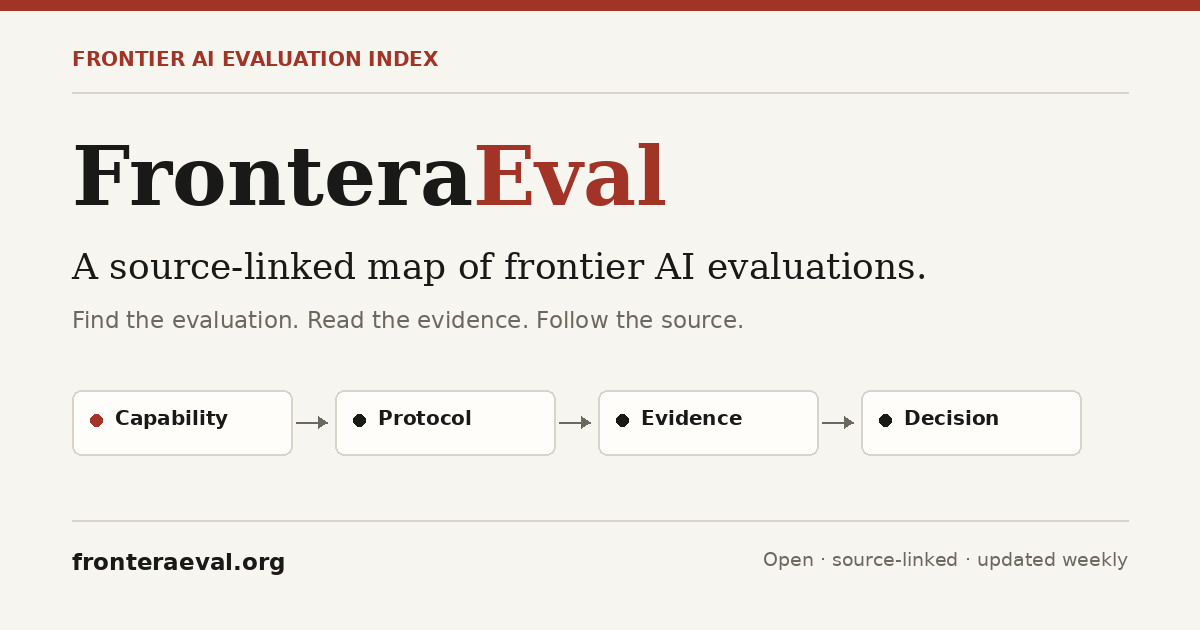
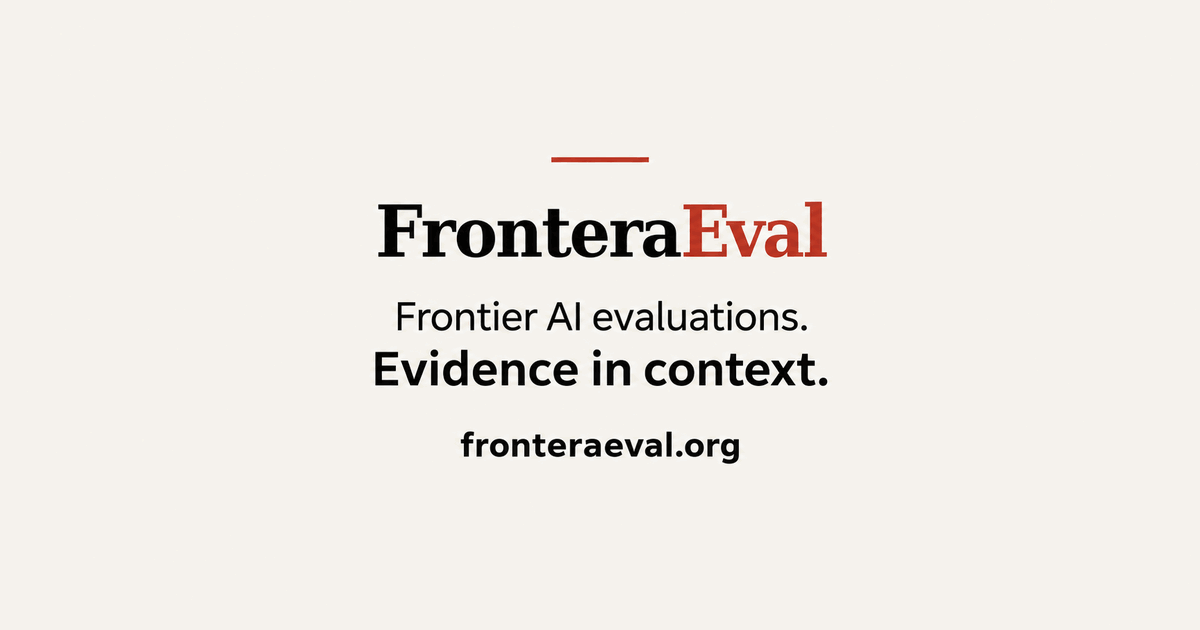
Center social sharing card for square crops and refresh metadata

diff --git a/site/index.html b/site/index.html
@@ -10,7 +10,7 @@
   <meta name="color-scheme" content="light dark">
   <meta name="theme-color" content="#f7f5ef" media="(prefers-color-scheme: light)">
   <meta name="theme-color" content="#171715" media="(prefers-color-scheme: dark)">
-  <title>FronteraEval — Frontier AI evaluations, mapped</title>
+  <title>FronteraEval | Frontier AI evaluations</title>
   <link rel="canonical" href="https://fronteraeval.org/">
   <link rel="alternate" type="application/atom+xml" title="FronteraEval updates" href="https://fronteraeval.org/feed.xml">
   <link rel="search" type="application/opensearchdescription+xml" title="FronteraEval" href="https://fronteraeval.org/opensearch.xml">
@@ -19,22 +19,22 @@
   <link rel="apple-touch-icon" href="/apple-touch-icon.png">
   <meta property="og:site_name" content="FronteraEval">
   <meta property="og:type" content="website">
-  <meta property="og:title" content="FronteraEval — Frontier AI evaluations, mapped">
+  <meta property="og:title" content="FronteraEval | Frontier AI evaluations">
   <meta property="og:description" content="Find frontier AI evaluations, follow their original sources, and understand what each result can and cannot establish.">
   <meta property="og:url" content="https://fronteraeval.org/">
-  <meta property="og:image" content="https://fronteraeval.org/social-card.png">
-  <meta property="og:image:url" content="https://fronteraeval.org/social-card.png">
-  <meta property="og:image:secure_url" content="https://fronteraeval.org/social-card.png">
+  <meta property="og:image" content="https://fronteraeval.org/social-card-v2.png">
+  <meta property="og:image:url" content="https://fronteraeval.org/social-card-v2.png">
+  <meta property="og:image:secure_url" content="https://fronteraeval.org/social-card-v2.png">
   <meta property="og:image:type" content="image/png">
   <meta property="og:image:width" content="1200">
   <meta property="og:image:height" content="630">
-  <meta property="og:image:alt" content="FronteraEval — a source-linked map of frontier AI evaluations">
+  <meta property="og:image:alt" content="FronteraEval. Frontier AI evaluations. Evidence in context.">
   <meta property="og:locale" content="en_GB">
   <meta name="twitter:card" content="summary_large_image">
-  <meta name="twitter:title" content="FronteraEval — Frontier AI evaluations, mapped">
+  <meta name="twitter:title" content="FronteraEval | Frontier AI evaluations">
   <meta name="twitter:description" content="Find frontier AI evaluations, follow their original sources, and understand what each result can and cannot establish.">
-  <meta name="twitter:image" content="https://fronteraeval.org/social-card.png">
-  <meta name="twitter:image:alt" content="FronteraEval — a source-linked map of frontier AI evaluations">
+  <meta name="twitter:image" content="https://fronteraeval.org/social-card-v2.png">
+  <meta name="twitter:image:alt" content="FronteraEval. Frontier AI evaluations. Evidence in context.">
   <meta name="twitter:creator" content="@apolmig">
   <script src="/theme-init.js"></script>
   <link rel="stylesheet" href="/styles.css">

diff --git a/site/seo-runtime.js b/site/seo-runtime.js
@@ -1,13 +1,13 @@
 (() => {
   const BASE='https://fronteraeval.org';
-  const CARD=`${BASE}/social-card.png`;
+  const CARD=`${BASE}/social-card-v2.png`;
   let catalog=null;
   (globalThis.FronteraEvalCatalogPromise ||= fetch('/data/catalog.json').then((r)=>r.ok?r.json():null).catch(()=>null)).then((data)=>{catalog=data;update()});
   const ensure=(selector,tag,attrs={})=>{let node=document.head.querySelector(selector);if(!node){node=document.createElement(tag);Object.entries(attrs).forEach(([k,v])=>node.setAttribute(k,v));document.head.append(node)}return node};
   const setMeta=(selector,kind,value)=>{if(!value)return;const key=selector.match(/"([^"]+)/)?.[1]||'';const node=ensure(selector,'meta',{[kind]:key});node.setAttribute('content',value)};
   const slug=(record)=>String(record?.slug||record?.id||'evaluation').normalize('NFKD').replace(/[\u0300-\u036f]/g,'').toLowerCase().replace(/[^a-z0-9]+/g,'-').replace(/^-+|-+$/g,'').slice(0,100);
   function update(){
-    const raw=(location.hash||'#/').slice(1),path=raw.split('?')[0];let title='FronteraEval — Frontier AI evaluations, mapped';let description='Find frontier AI evaluations, follow their original sources, and understand what each result can and cannot establish.';let canonical=`${BASE}/`;
+    const raw=(location.hash||'#/').slice(1),path=raw.split('?')[0];let title='FronteraEval | Frontier AI evaluations';let description='Find frontier AI evaluations, follow their original sources, and understand what each result can and cannot establish.';let canonical=`${BASE}/`;
     if(path==='/evals'){title='Frontier AI evaluations — FronteraEval';canonical=`${BASE}/evaluations/`}
     else if(path.startsWith('/eval/')&&catalog){let id;try{id=decodeURIComponent(path.slice(6))}catch{return}const record=catalog.records?.find((item)=>item.id===id);if(record){title=`${record.name} — FronteraEval`;description=record.measures||record.description||description;canonical=`${BASE}/evaluations/${slug(record)}/`;setTimeout(()=>{let currentId;try{currentId=decodeURIComponent((location.hash||'').slice(1).split('?')[0].slice(6))}catch{return}if(currentId===record.id)replaceCopy(record,canonical)},0)}}
     else if(path==='/topics'){title='Frontier AI evaluation topics — FronteraEval';canonical=`${BASE}/topics/`}

diff --git a/site/brief/index.html b/site/brief/index.html
@@ -12,14 +12,14 @@
   <meta property="og:title" content="Build an evaluation brief | FronteraEval">
   <meta property="og:description" content="Define the question, select source-linked evaluations, and record the missing evidence.">
   <meta property="og:url" content="https://fronteraeval.org/brief/">
-  <meta property="og:image" content="https://fronteraeval.org/social-card.png">
+  <meta property="og:image" content="https://fronteraeval.org/social-card-v2.png">
   <meta property="og:image:width" content="1200">
   <meta property="og:image:height" content="630">
-  <meta property="og:image:alt" content="FronteraEval: a source-linked map of frontier AI evaluations">
+  <meta property="og:image:alt" content="FronteraEval. Frontier AI evaluations. Evidence in context.">
   <meta name="twitter:card" content="summary_large_image">
   <meta name="twitter:title" content="Build an evaluation brief | FronteraEval">
   <meta name="twitter:description" content="Define the question, select source-linked evaluations, and record the missing evidence.">
-  <meta name="twitter:image" content="https://fronteraeval.org/social-card.png">
+  <meta name="twitter:image" content="https://fronteraeval.org/social-card-v2.png">
   <link rel="icon" href="/favicon.svg" type="image/svg+xml">
   <script src="/theme-init.js"></script>
   <link rel="stylesheet" href="/styles.css">
